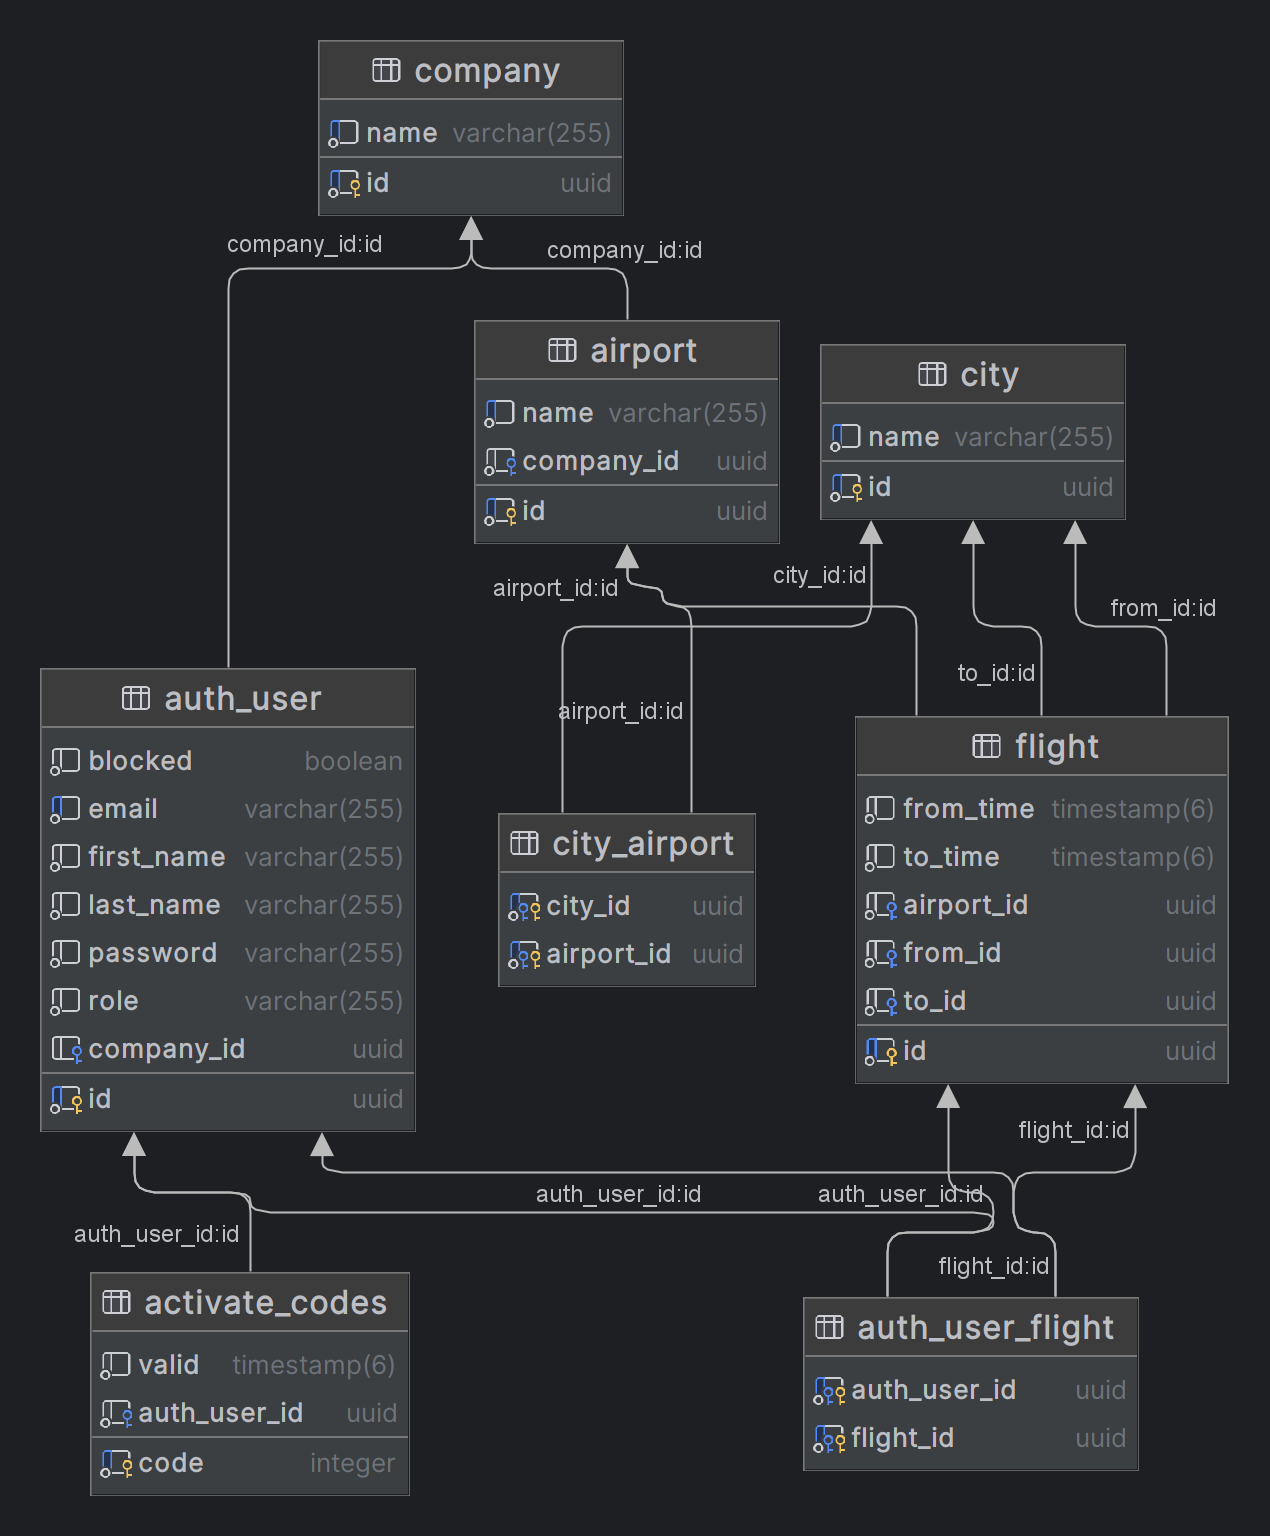
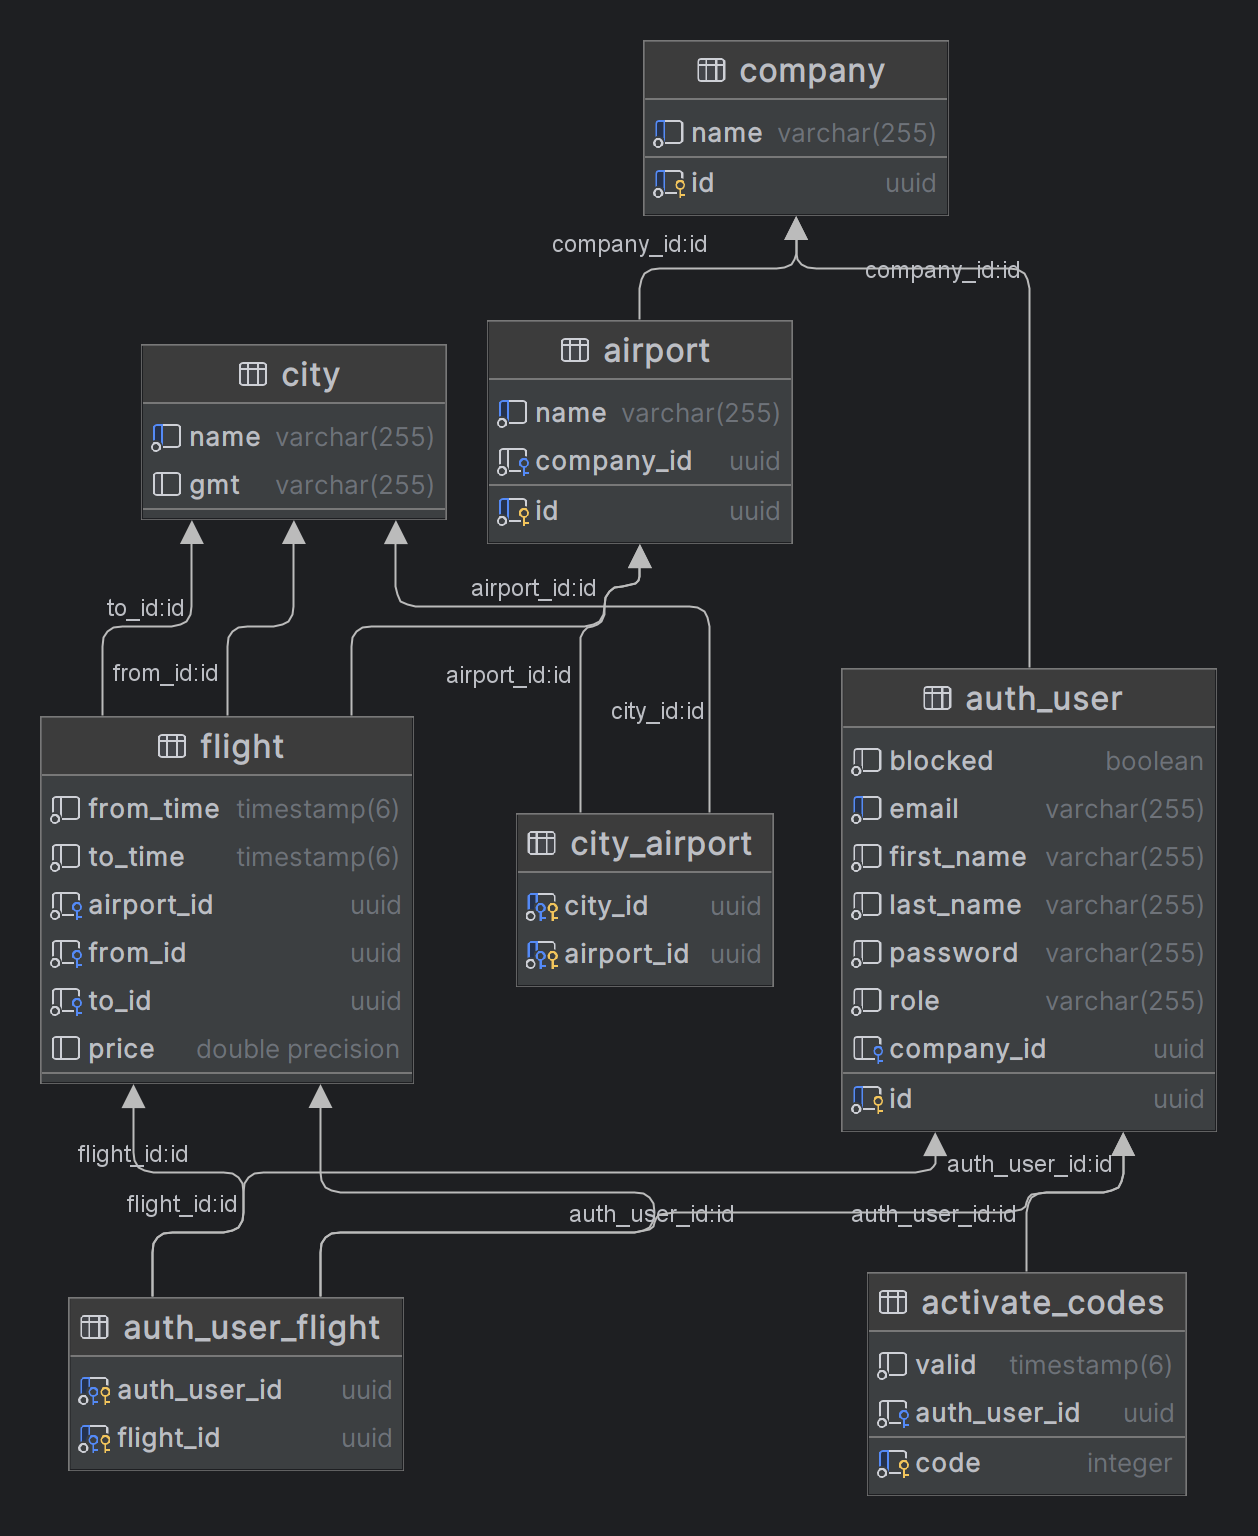
This is my first big project that made with Spring Boot

Changed region(s): [[0.031, 0.1875, 0.899, 1.0], [0.62, 0.375, 0.9921, 1.0], [0.186, 0.0, 0.806, 0.1875]]

diff --git a/src/main/java/com/example/demo/services/AdminServiceImpl.java b/src/main/java/com/example/demo/services/AdminServiceImpl.java
@@ -4,12 +4,14 @@ package com.example.demo.services;
 import com.example.demo.entities.Auditable;
 import com.example.demo.entities.AuthUser;
 import com.example.demo.repositories.AuthUserRepository;
+import lombok.NonNull;
 import lombok.RequiredArgsConstructor;
 import lombok.extern.slf4j.Slf4j;
 import org.springframework.stereotype.Service;
 
 import java.time.LocalDateTime;
 import java.util.Arrays;
+import java.util.UUID;
 
 @Service
 @Slf4j
@@ -66,5 +68,27 @@ public class AdminServiceImpl implements AdminService {
              e.printStackTrace();
              log.info("{}", Arrays.toString(e.getStackTrace()));
          }
+    }
+
+    @Override
+    public void block(@NonNull String mail) {
+        try {
+            authUserRepository.blockUserById(mail);
+            log.info("{} shu id lik user blocklandi",mail);
+        }catch (Exception e){
+            e.printStackTrace();
+            log.info("{}",Arrays.toString(e.getStackTrace()));
+        }
+    }
+
+    @Override
+    public void unblock(@NonNull String mail) {
+        try {
+            authUserRepository.unblockUserById(mail);
+            log.info("{} shu id lik user blockdan chiqarildi",mail);
+        }catch (Exception e){
+            e.printStackTrace();
+            log.info("{}",Arrays.toString(e.getStackTrace()));
+        }
     }
 }

diff --git a/src/main/java/com/example/demo/controllers/AdminController.java b/src/main/java/com/example/demo/controllers/AdminController.java
@@ -6,6 +6,8 @@ import org.springframework.security.access.prepost.PreAuthorize;
 import org.springframework.transaction.annotation.Transactional;
 import org.springframework.web.bind.annotation.*;
 
+import java.util.UUID;
+
 @RestController
 @RequiredArgsConstructor
 @PreAuthorize("hasRole('ADMIN')")
@@ -13,6 +15,17 @@ import org.springframework.web.bind.annotation.*;
 public class AdminController {
     public final AdminService adminService;
 
+
+    @Transactional
+    @PutMapping("/block-user/{email}")
+    public void block(@PathVariable String email){
+        adminService.block(email);
+    }
+    @Transactional
+    @PutMapping("/unblock-user/{email}")
+    public void unblock(@PathVariable String email){
+        adminService.unblock(email);
+    }
     @Transactional
     @PutMapping("/set-admin/{email}")
     public void setAdmin(@PathVariable String email){

diff --git a/src/main/java/com/example/demo/mappers/FlightMapper.java b/src/main/java/com/example/demo/mappers/FlightMapper.java
@@ -18,6 +18,7 @@ public interface FlightMapper {
                 .to(to)
                 .from(from)
                 .airport(airport)
+                .price(flightDtoR.price)
                 .authUsers(flightDtoR.getAuthUsers())
                 .fromTime(flightDtoR.getFromTime())
                 .toTime(flightDtoR.getToTime())
@@ -27,6 +28,7 @@ public interface FlightMapper {
         return FlightDtoR.builder()
                 .fromTime(flight.getFromTime())
                 .toTime(flight.getToTime())
+                .price(flight.getPrice())
                 .fromId(flight.getFrom().getId())
                 .toId(flight.getTo().getId())
                 .airportId(flight.getAirport().getId())

diff --git a/src/main/java/com/example/demo/dtoRequest/FlightDtoR.java b/src/main/java/com/example/demo/dtoRequest/FlightDtoR.java
@@ -2,6 +2,7 @@ package com.example.demo.dtoRequest;
 
 import com.example.demo.entities.AuthUser;
 import jakarta.validation.constraints.NotNull;
+import jakarta.validation.constraints.Positive;
 import lombok.*;
 
 import java.time.LocalDateTime;
@@ -21,7 +22,7 @@ public class FlightDtoR {
     private LocalDateTime fromTime;
 
 
-    private LocalDateTime toTime;
+    public LocalDateTime toTime;
 
 
     @NotNull
@@ -30,8 +31,12 @@ public class FlightDtoR {
     public Set<AuthUser> authUsers;
 
     @NotNull
-    private UUID fromId;
+    public UUID fromId;
 
     @NotNull
-    private UUID toId;
+    public UUID toId;
+
+    @NotNull
+    @Positive
+    public Double price;
 }

diff --git a/src/main/java/com/example/demo/DemoApplication.java b/src/main/java/com/example/demo/DemoApplication.java
@@ -75,6 +75,12 @@ public class DemoApplication {
 		return GroupedOpenApi.builder()
 				.group("agent")
 				.pathsToMatch("/api.flight/**",
+						"/api.city/get/**",
+						"/api.city/get-id/**",
+						"/api.company/get/**",
+						"/api.company/get-id/**",
+						"/api.airport/get/**",
+						"/api.airport/get-id/**",
 						"/api.auth/**")
 				.build();
 	}
@@ -82,7 +88,7 @@ public class DemoApplication {
 	public GroupedOpenApi customer() {
 		return GroupedOpenApi.builder()
 				.group("customer")
-				.pathsToMatch("/api.flight/get/**",
+				.pathsToMatch(
 						"/api.city/get/**",
 						"/api.city/get-id/**",
 						"/api.company/get/**",

diff --git a/src/main/java/com/example/demo/services/AdminService.java b/src/main/java/com/example/demo/services/AdminService.java
@@ -1,7 +1,11 @@
 package com.example.demo.services;
 
 import com.example.demo.dto.AuthUserDto;
+import jakarta.validation.constraints.NotNull;
+import lombok.NonNull;
 import org.springframework.stereotype.Service;
+
+import java.util.UUID;
 
 @Service
 public interface AdminService {
@@ -9,4 +13,8 @@ public interface AdminService {
     void removeRoleAdmin(String name);
     void setRoleAgent(String name);
     void removeRoleAgent(String name);
+
+    void block(@NonNull String email);
+
+    void unblock(@NonNull String email);
 }

diff --git a/src/main/java/com/example/demo/repositories/AuthUserRepository.java b/src/main/java/com/example/demo/repositories/AuthUserRepository.java
@@ -10,4 +10,12 @@ import java.util.UUID;
 
 public interface AuthUserRepository extends JpaRepository<AuthUser, UUID>, JpaSpecificationExecutor<AuthUser> {
    AuthUser findByEmailAndBlockedFalse(String email);
+
+   @Modifying
+   @Query(value = "update AuthUser au set au.blocked=true where au.email=?1")
+   void blockUserById(String email);
+
+   @Modifying
+   @Query(value = "update AuthUser au set au.blocked=false where au.email=?1")
+   void unblockUserById(String email);
 }

diff --git a/src/main/java/com/example/demo/entities/Flight.java b/src/main/java/com/example/demo/entities/Flight.java
@@ -3,6 +3,7 @@ import jakarta.persistence.*;
 import jakarta.validation.constraints.Future;
 import jakarta.validation.constraints.NotBlank;
 import jakarta.validation.constraints.NotNull;
+import jakarta.validation.constraints.Positive;
 import lombok.*;
 
 import java.time.LocalDateTime;
@@ -57,4 +58,8 @@ public class Flight {
             CascadeType.PERSIST, CascadeType.REFRESH})
     @NotNull
     private City to;
+
+    @NotNull
+    @Positive
+    private Double price;
 }
